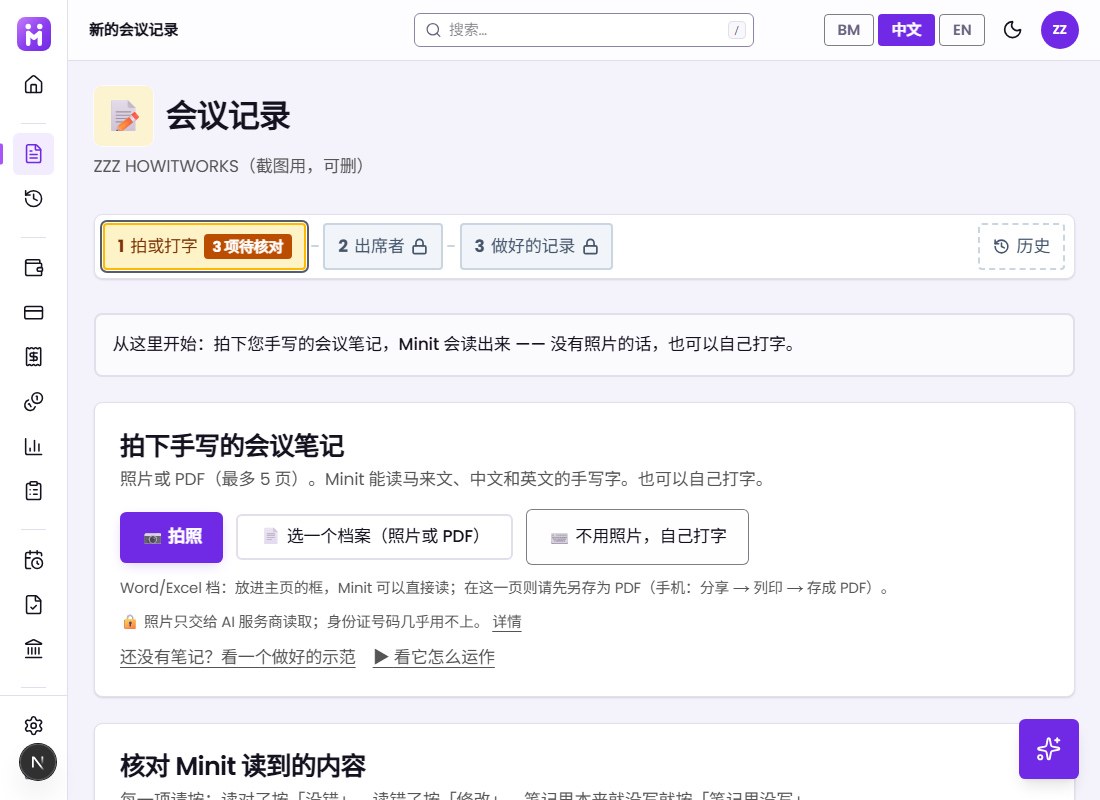
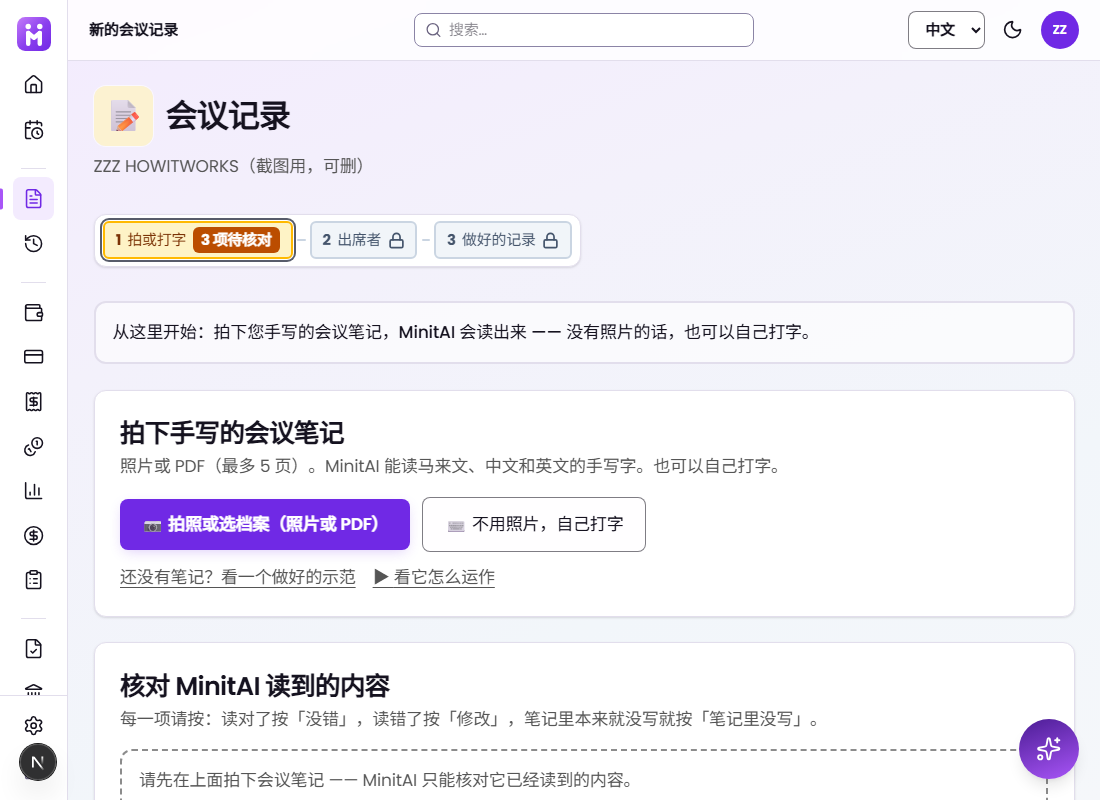
Re-shoot the four "see how it works" frames against the new UI
The frames still showed the pre-redesign cards with their 2px charcoal
outlines, so the walkthrough no longer matched the app it was explaining.
Re-shot with scripts/howitworks-shots.mjs (its own test org, deleted after).

The three highlight rectangles move with them. Their positions were not
eyeballed: the violet button's bounding box was found by scanning the new PNG
for #7029E5 pixels, which agreed with what the script measured in the live
page - 10.9% / 62.4% / 26.3% on frame 1.

diff --git a/src/app/how-it-works.tsx b/src/app/how-it-works.tsx
@@ -49,8 +49,8 @@ const FRAMES: readonly {
     en: "Photograph the handwritten notes — or type them in.",
     hi: {
       left: "10.9%",
-      top: "64.0%",
-      width: "9.4%",
+      top: "62.4%",
+      width: "26.3%",
       height: "6.4%",
       labelBm: "Tekan di sini",
       labelZh: "现在按这里",
@@ -65,7 +65,7 @@ const FRAMES: readonly {
     en: `${BRAND_NAME} reads every line. Smudged ones are flagged for you to check.`,
     hi: {
       left: "11.1%",
-      top: "44.8%",
+      top: "44.7%",
       width: "84.0%",
       height: "10.5%",
       labelBm: "Semak baris kuning di sini",
@@ -83,7 +83,7 @@ const FRAMES: readonly {
     // rows are gone from the real page — the walkthrough IS the demo).
     hi: {
       left: "10.9%",
-      top: "69.2%",
+      top: "61.2%",
       width: "24.7%",
       height: "6.9%",
       labelBm: "Sahkan di sini",
